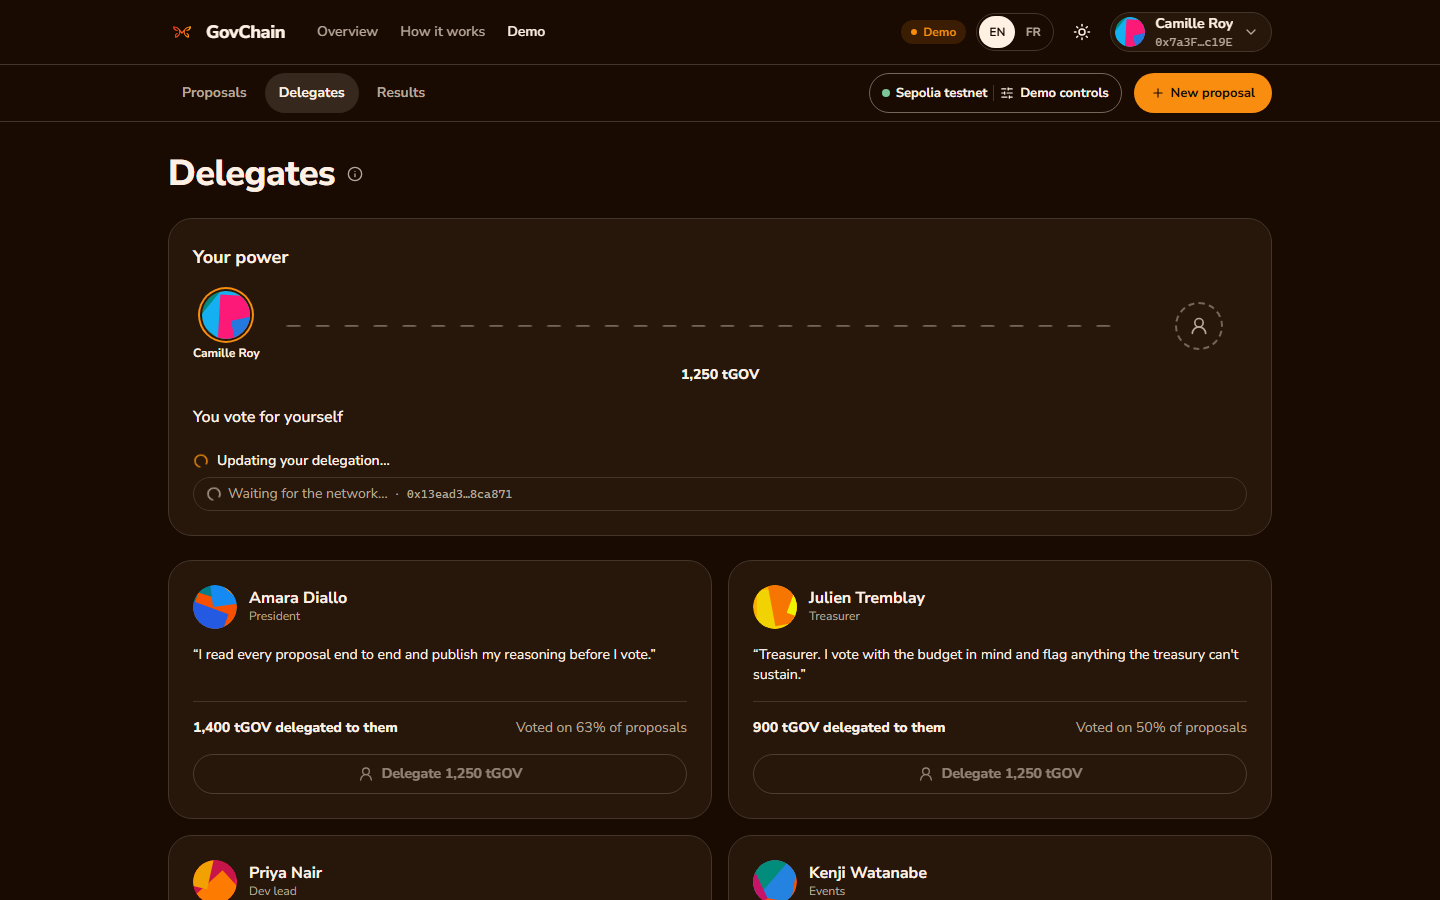
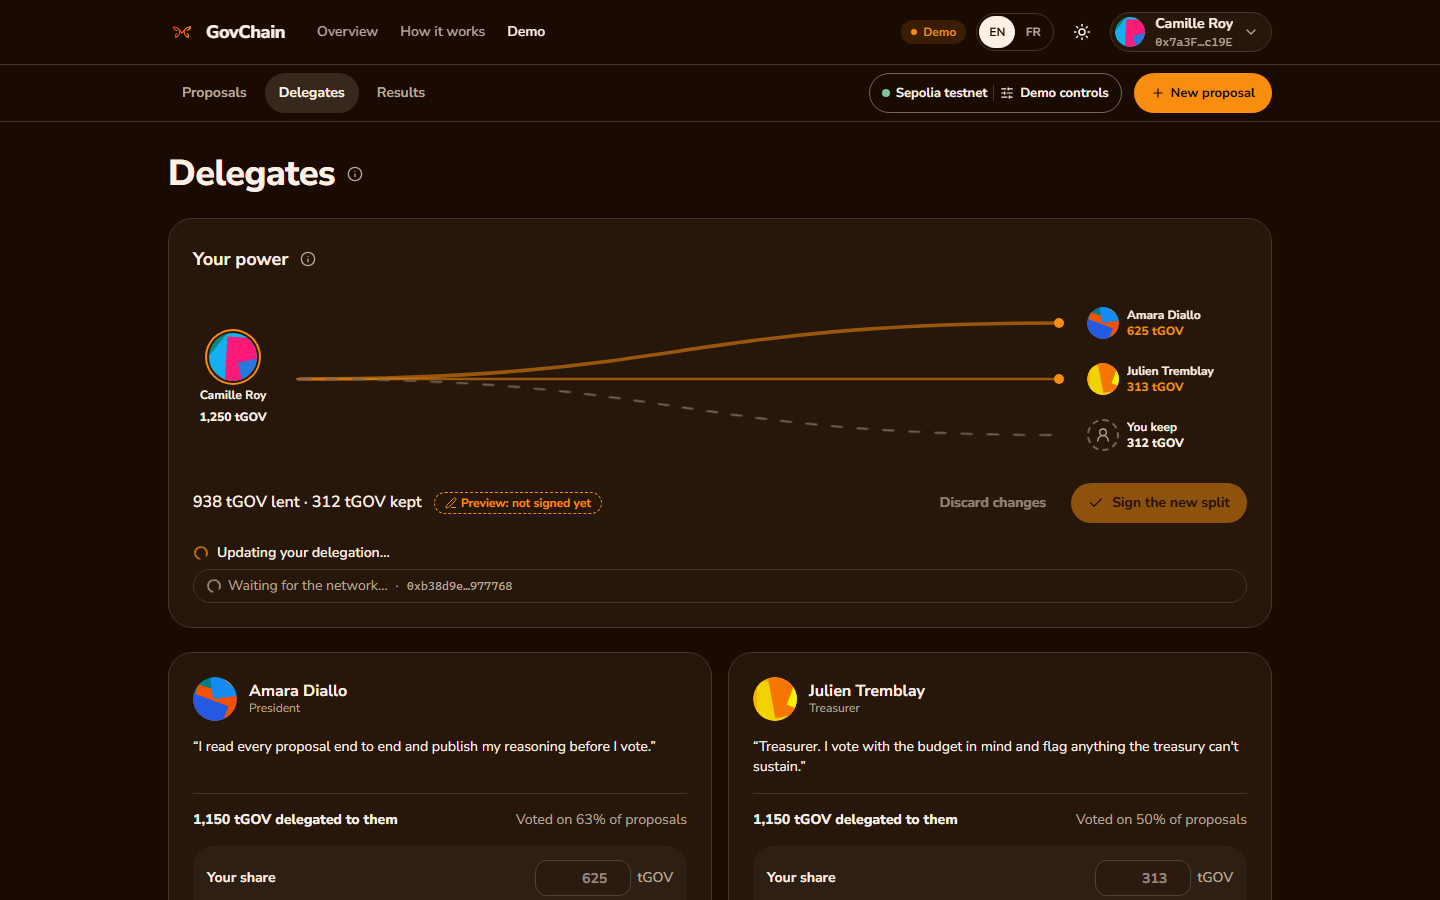
docs: plan and screenshots for partial delegation
Claude-Session: https://claude.ai/code/session_015mB8jpYnKTR8oCz1AhMGUP

diff --git a/docs/site-plan.md b/docs/site-plan.md
@@ -28,7 +28,7 @@ Status: shipped on `develop`. Written before any code, then kept in sync with wh
 | Proposal | A decision put to a vote: title, reasoning, category, an optional action, and its rules (voting model, period, quorum, threshold). |
 | Voting power | How much one member's vote weighs. Measured in **tGOV**, the space's testnet governance token, or as one vote per wallet. |
 | Voting model | How power is counted, chosen per proposal: **one wallet, one vote**; **token-weighted**; **token-weighted with delegation** (the default). |
-| Delegation | Lending your voting power to a trusted member (a delegate) who votes with it. You can take it back at any time. |
+| Delegation | Lending some or all of your voting power to trusted members (delegates) who vote with it. You can split it across several delegates, keep the rest to vote yourself, and take it back at any time. Power lent to a delegate is never passed on (no chains). |
 | Quorum | The minimum participation for a result to count (for example 20% of all voting power). Abstentions count towards quorum. |
 | Threshold | The share of *For* among For + Against needed to pass (for example more than 50%, or 66% for rule changes). |
 | Voting period | How long the vote stays open (1 to 14 days). |
@@ -53,7 +53,7 @@ Status: shipped on `develop`. Written before any code, then kept in sync with wh
 Supporting benefits, as outcomes:
 
 1. **Everyone knows the rules before the vote starts.** Quorum, threshold, voting model and what happens if it passes are fixed on the proposal, and nobody can change them mid-vote.
-2. **Members who can't follow every vote still count.** Delegate your voting power to someone you trust, and take it back whenever you want.
+2. **Members who can't follow every vote still count.** Delegate some or all of your voting power to people you trust, and take it back whenever you want.
 3. **Decisions actually happen.** A passed proposal carries its own action (a treasury payment, a rule change), executed from the result, with a receipt anyone can check.
 
 ## 3. Hero
@@ -77,7 +77,7 @@ All routes live under `/{locale}` (`en`, `fr`). `/` and any locale-less path red
 | `/{locale}/app` | The interactive demo: the space's proposals. | Connect gate (when disconnected: title, one line, button) · Space header (name, members, treasury, participation) · Your voting power card (own, delegated to you, delegated away, role with an info popover) · Proposals with status tabs (Active, Passed, Closed, All) and search; rows show title, tally and deadline (the summary is on the proposal page) · Recent activity rail (4 entries) |
 | `/{locale}/app/proposals/[id]` | One proposal: read it, vote, follow the tally, execute it. | Header (status, category, author, time left) · Tally (bar, quorum marker, threshold, outcome) · Your vote panel · "Same ballots, other rules" comparison (collapsed disclosure) · Reasoning · The rules of this vote · Action (execution hook) · Votes cast (3 at a time, "Show all") · Timeline with receipts |
 | `/{locale}/app/new` | Create a proposal (proposers and admins). | Templates · Title, category, reasoning (hints as placeholders) · Action (signal, treasury transfer, rule change; what each does is in an info popover) · Rules (voting model, period, quorum, threshold) · Live preview card · Submit, with the one note "Once published, the text and rules can't change." |
-| `/{locale}/app/delegates` | Delegate your voting power, or take it back. | Title with an info popover (tokens stay put, take it back anytime) · Your power and current delegate · Delegates (name, pitch, power received, participation rate) · Delegate / undelegate |
+| `/{locale}/app/delegates` | Split your voting power across delegates, or take it back. | Title with an info popover (tokens stay put, take it back anytime) · Your power: the fan-out diagram (one line per delegate, as thick as their share, plus a dashed line for what you keep), "938 tGOV lent · 312 tGOV kept", an info popover on how splits work on-chain, and *Sign the new split* / *Discard changes* while editing or *Take back all my power* · Delegates (name, pitch, power received, participation rate) each with a *Your share* control: amount field, slider, 25% / 50% / Max presets, *Remove*, and "You lend X tGOV" |
 | `/{locale}/app/results` | Results tracking and analytics (a documented deliverable). | Summary (proposals, pass rate, average turnout) · Turnout per proposal against quorum (bar chart in SVG) · Outcomes by category · Your voting history |
 | `/{locale}/how-it-works` | For students, developers and careful members: the mechanics. Justified because the documentation frames GovChain as a teaching testbed (governance design, on-chain vs off-chain recording, contract logic). | One-line intro · The life of a proposal (diagram) · Quorum vs threshold with a worked example · The three voting models on the same ballots · Delegation · Roles and permissions table · On-chain vs off-chain vote recording · For developers (one line; the contract calls behind a "Show the contract calls" disclosure) · Call to action (heading + button) |
 | `/{locale}/credits` | Photo, font and icon credits (required by the asset rules). | Photos · Type and icons · Monark brand assets |
@@ -107,7 +107,7 @@ All transactions go through a simulated wallet prompt ("Confirm in your wallet":
 
 1. **Connect a wallet.** `/app` → "Connect demo wallet" → wallet prompt "Sign in to GovChain" (no fee) → *pending* ("Waiting for signature…") → *connected*: header shows the `connect-wallet` chip; the power card shows 1,250 tGOV, proposer role. *Failed*: rejecting shows "You declined the sign-in request. Nothing was shared." with retry.
 2. **Vote on an active proposal.** Proposal page → choose *For*, *Against* or *Abstain* → optional reason (280 characters) → *Cast your vote* → wallet prompt (proposal, choice, weight "1,250 tGOV") → *pending*: your ballot shows as a hatched ghost segment on the tally → *confirmed*: the segment fills, the quorum marker and outcome settle (e.g. "Quorum reached · Passing"), your vote appears first in the list with its receipt. *Failed*: "Failed. The transaction failed on the network. Nothing was recorded." with *Try again*; the choice and reason stay filled. Already voted: the panel shows your ballot and receipt instead of buttons (no toast). Delegated away: "You delegated your power to Amara." + *Manage delegation*. Other members keep voting live while a proposal is open (toggle in demo controls).
-3. **Delegate your voting power.** `/app/delegates` → pick a delegate (pitch, participation, power received) → *Delegate 1,250 tGOV* → wallet prompt → *pending*: a line carries your power to the delegate's card → *confirmed*: their power counts up, your card reads "Delegated to …", vote panels explain why you can't vote directly. *Undelegate* reverses it. Failed as above. Voters can delegate; everyone can undelegate.
+3. **Split your voting power.** `/app/delegates` → on a delegate's card, set *Your share* (amount, slider, or 25% / 50% / Max); the diagram previews the split with a "Preview: not signed yet" tag and a running "lent · kept" line → *Sign the new split* → wallet prompt (one row per delegate and "Kept for yourself") → *pending* → *confirmed*: delegates' power counts up, their cards read "Your delegate" and "You lend X tGOV". On proposals using delegation you vote with what you kept (the panel says how much is with your delegates); if you lent everything, the panel explains why you can't vote directly. *Take back all my power* reverses it. Failed as above. Saved demo state from before splits (one `delegate`) migrates to a single full-balance split.
 4. **Create a proposal with an action.** `/app/new` (proposer or admin; a voter sees a locked page: "Publishing needs the proposer role", "Or 2,000 tGOV. Switch role in Demo controls.", *Back to proposals*) → template or blank → title, category, reasoning → action: signal / treasury transfer (amount, token, recipient address validated `0x` + 40 hex, capped at the treasury balance) / rule change → rules: model, period, quorum, threshold, with a plain-language preview ("Passes if at least 8,000 tGOV take part and more than 50% of them vote For") → *Submit proposal* → wallet prompt → *pending* ("Publishing your proposal…") → *confirmed*: redirect to the new proposal, voting open (no toast). *Failed*: "Publishing failed on the network. Nothing was created." with *Try again*; the form stays filled. Validation errors are listed at the top and inline.
 5. **Close, then execute a passed proposal.** On an open proposal, the *Manage* card → *End voting now* (an info popover says it is demo-only) (a simulated clock jump) → the result is computed (passed, defeated or quorum not met) and stamped. On a passed proposal with an action → *Execute* → wallet prompt (the transfer or rule change, disclaimer) → *pending* → *confirmed*: status "Executed", treasury or space rules update, receipt in the timeline, results page updated. *Failed*: "Execution reverted. The treasury is unchanged; you can retry." Proposers can *Cancel* their own open proposal (admins any) with the same transaction states.
 
@@ -127,7 +127,7 @@ The shipped copy lives in `src/i18n/dictionaries/en.ts` and `fr.ts` (typed: Fren
 | Models H2 | Choose how power is counted | Choisissez comment le pouvoir se compte |
 | Model: wallet | **One wallet, one vote.** Every member weighs the same. | **Un portefeuille, une voix.** Chaque membre pèse autant. |
 | Model: token | **Token-weighted.** Ballots weigh by tGOV held. | **Pondéré par jetons.** Les bulletins pèsent selon les tGOV détenus. |
-| Model: delegated | **With delegation.** Lend your power to a delegate, take it back anytime. | **Avec délégation.** Confiez votre pouvoir à un délégué, reprenez-le quand vous voulez. |
+| Model: delegated | **With delegation.** Lend some or all of your power to delegates, take it back anytime. | **Avec délégation.** Confiez tout ou partie de votre pouvoir, reprenez-le quand vous voulez. |
 | Same ballots | The demo-day venue vote, counted two ways. (Two bars computed from the seed: passes by tokens, fails 9 to 11 by wallets.) | Le vote sur la salle du demo day, compté de deux façons. |
 | Lifecycle H2 | The life of a proposal | La vie d'une proposition |
 | Steps | Propose · Vote · Reach quorum · Result · Execute | Proposer · Voter · Atteindre le quorum · Résultat · Exécuter |
@@ -155,7 +155,8 @@ The shipped copy lives in `src/i18n/dictionaries/en.ts` and `fr.ts` (typed: Fren
 | No search match | No proposal matches "{query}". + *Clear search* | Aucune proposition ne correspond à « {query} ». + *Effacer la recherche* |
 | Outcome lines | Passing · Not passing · Quorum not reached yet · Passed · Defeated · Quorum not met · Executed · Cancelled | En voie d'adoption · En voie de rejet · Quorum pas encore atteint · Adoptée · Rejetée · Quorum non atteint · Exécutée · Annulée |
 | Vote panel | Cast your vote · For · Against · Abstain · Add a reason (optional) | Votez · Pour · Contre · Abstention · Ajoutez une raison (facultatif) |
-| Delegated away | You delegated your power to {name}. + *Manage delegation* | Vous avez confié votre pouvoir à {name}. + *Gérer la délégation* |
+| Delegated away (all) | You lent all your power to {names}. + *Manage delegation* | Vous avez confié tout votre pouvoir à {names}. + *Gérer la délégation* |
+| Delegated in part | You vote with the {kept} tGOV you kept; {lent} tGOV is with your delegates. | Vous votez avec les {kept} tGOV que vous avez gardés ; {lent} tGOV sont chez vos délégués. |
 | Wallet prompt | Confirm in your wallet · Estimated network fee · Confirm · Reject | Confirmez dans votre portefeuille · Frais de réseau estimés · Confirmer · Refuser |
 | Disclaimer (wallet prompt only, when value moves) | Testnet demo · not financial advice · no real funds | Démo sur testnet · ceci n'est pas un conseil financier · aucun fonds réel |
 | Pending | Waiting for the network… | En attente du réseau… |
@@ -181,7 +182,7 @@ Colour, type, logo, header and footer are fixed by the guidelines: cream / espre
 - **Signature moments.**
   1. **The tally settles.** Your ballot enters the bar as a hatched ghost while pending, fills on confirmation, the quorum marker flips to "Quorum reached" and the outcome line settles. Hero and proposal page.
   2. **Same ballots, other rules.** On a proposal, switching the comparison between voting models re-weighs the same ballots and the bar re-settles, showing how the rule changes the result.
-  3. **Power moves.** Delegating draws a line from your card to your delegate's, and their power counts up; undelegating draws it back.
+  3. **Power moves.** Adjusting a share previews the split live: lines fan out from you to each delegate, as thick as their share, with a dashed line for what you keep. Signing settles them and the delegates' power counts up; taking it back collapses the fan to the dashed line.
 - Motion: 150–250 ms ease-out for state changes (the hero loop and bar re-weighing are slower, explanatory); everything honours `prefers-reduced-motion` (final state rendered directly).
 
 ## 9. Assets
@@ -210,6 +211,7 @@ A designed `/{locale}/pricing` page exists **for internal review only**: not lin
 - Multiple spaces, space creation, and member onboarding (minting tGOV); the demo has one seeded space.
 - Editing a proposal after it is published (ballots must be cast on fixed text); authors cancel and resubmit instead.
 - Timelocks, vetoes, quadratic or ranked-choice voting, private (ZK) ballots and snapshot-block semantics (the demo weighs ballots with current delegations): not simulated.
+- Partial delegation's contracts: a standard ERC20Votes token delegates a whole balance to one address, so splits need a sub-delegation proxy per delegate (Uniswap's Franchiser pattern) or a governor counting fractional votes (Flexible Voting). The demo simulates the proxy route as one transaction; how-it-works and an info popover say so.
 - Off-chain signed votes are explained, not simulated: every demo vote is a simulated on-chain transaction.
 - Discussion threads and notifications; a vote reason is the only free text.
 - A `/brand` page, a blog, or any backend.
